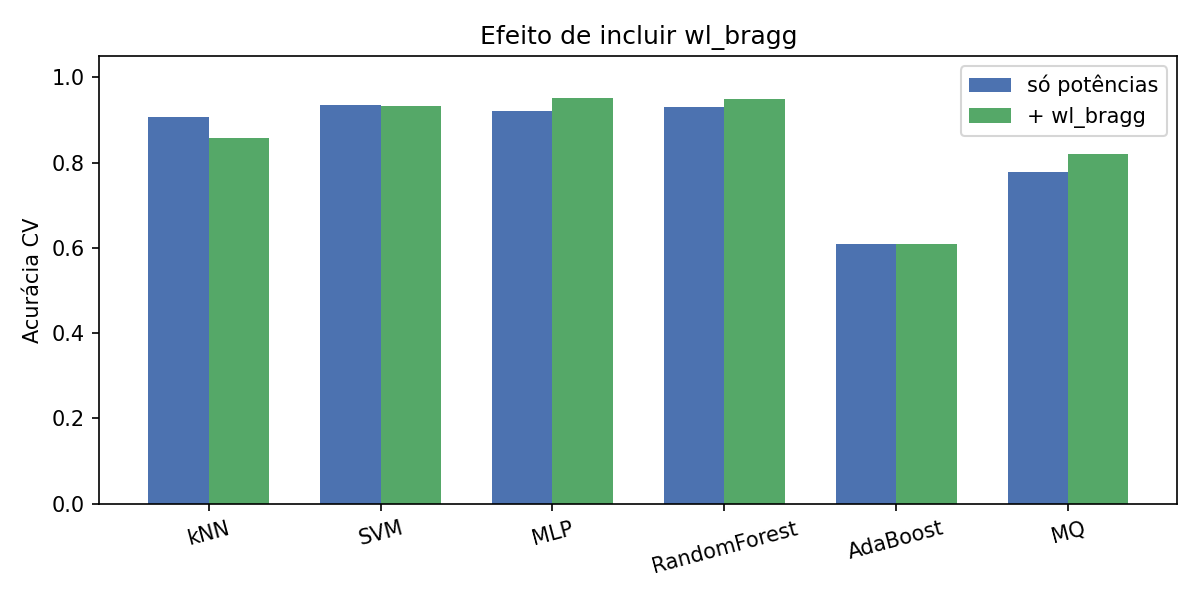
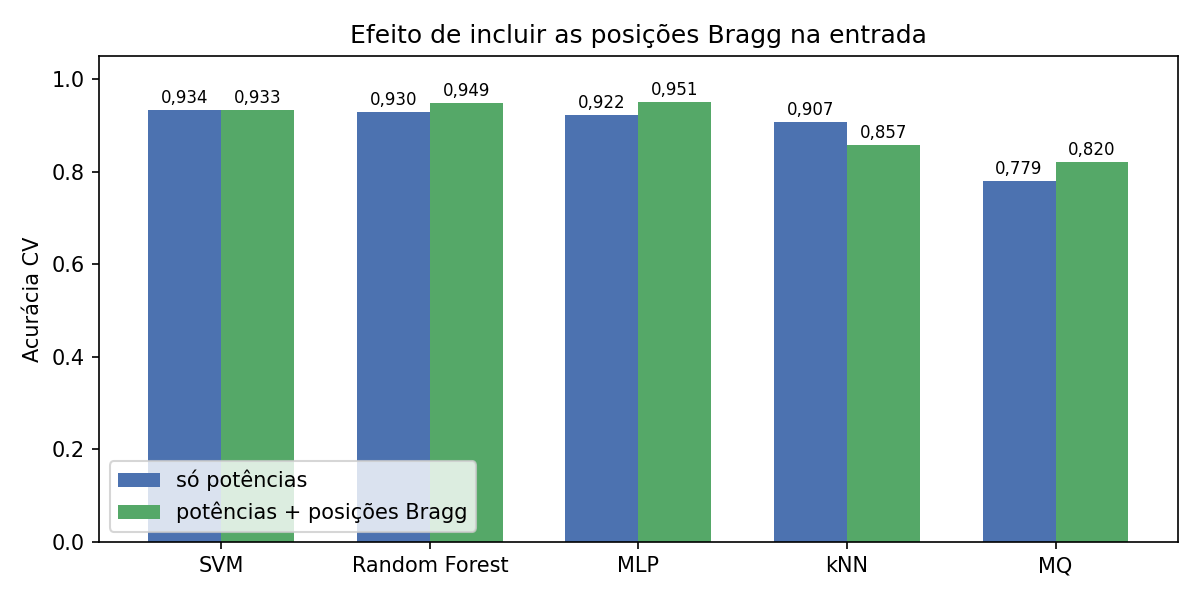
Polish IEEE paper prose and fix technical wording; refresh ablation figure
Fix LPFG dip width claim (tens of nm), submetric->subnanometric precision, expand abbreviations at first use, and drop the stale AdaBoost bars from the feature-ablation figure via a new plotting script.

diff --git a/paper/classification/scripts/plot_feature_ablation.py b/paper/classification/scripts/plot_feature_ablation.py
@@ -1,0 +1,64 @@
+"""Regenera a figura da ablação de features (potências vs +posições Bragg).
+
+Lê results/passo5_compare_features.csv e exclui o AdaBoost, cuja linha no CSV
+foi gerada com a configuração antiga (stumps, acc ~0.61) e não reflete o modelo
+reajustado reportado no artigo. Salva em classification/figures e ieee/figures.
+"""
+
+from __future__ import annotations
+
+from pathlib import Path
+
+import matplotlib
+
+matplotlib.use("Agg")
+import matplotlib.pyplot as plt
+import numpy as np
+import pandas as pd
+
+ROOT = Path(__file__).resolve().parents[1]
+RESULTS_DIR = ROOT / "results"
+FIGURES_DIR = ROOT / "figures"
+IEEE_FIGURES_DIR = ROOT.parent / "ieee" / "figures"
+
+LABELS = {
+    "kNN": "kNN",
+    "SVM": "SVM",
+    "MLP": "MLP",
+    "RandomForest": "Random Forest",
+    "MQ": "MQ",
+}
+
+
+def main() -> None:
+    df = pd.read_csv(RESULTS_DIR / "passo5_compare_features.csv")
+    df = df[df["classifier"] != "AdaBoost"].reset_index(drop=True)
+    order = ["SVM", "RandomForest", "MLP", "kNN", "MQ"]
+    df["classifier"] = pd.Categorical(df["classifier"], categories=order, ordered=True)
+    df = df.sort_values("classifier").reset_index(drop=True)
+
+    fig, ax = plt.subplots(figsize=(8, 4))
+    xpos = np.arange(len(df))
+    w = 0.35
+    ax.bar(xpos - w / 2, df["powers_only"], w, label="só potências", color="#4c72b0")
+    ax.bar(xpos + w / 2, df["powers_plus_wl"], w, label="potências + posições Bragg", color="#55a868")
+    ax.set_xticks(xpos)
+    ax.set_xticklabels([LABELS[c] for c in df["classifier"]])
+    ax.set_ylabel("Acurácia CV")
+    ax.set_title("Efeito de incluir as posições Bragg na entrada")
+    ax.legend(loc="lower left")
+    ax.set_ylim(0, 1.05)
+    for x, (p, q) in zip(xpos, zip(df["powers_only"], df["powers_plus_wl"])):
+        ax.text(x - w / 2, p + 0.015, f"{p:.3f}".replace(".", ","), ha="center", fontsize=8)
+        ax.text(x + w / 2, q + 0.015, f"{q:.3f}".replace(".", ","), ha="center", fontsize=8)
+    fig.tight_layout()
+
+    for out_dir in (FIGURES_DIR, IEEE_FIGURES_DIR):
+        out_dir.mkdir(parents=True, exist_ok=True)
+        fig.savefig(out_dir / "passo5_compare_features.png", dpi=150)
+        print(f"salvo: {out_dir / 'passo5_compare_features.png'}")
+    plt.close(fig)
+
+
+if __name__ == "__main__":
+    main()

diff --git a/paper/ieee/main.tex b/paper/ieee/main.tex
@@ -32,12 +32,12 @@ Juiz de Fora, MG, Brasil}
 \maketitle
 
 \begin{abstract}
-Sensores LPFG oferecem alta sensibilidade, mas sua interrogação espectral convencional é cara.
-Uma alternativa \emph{modula} o espectro da LPFG com um array de FBGs e estima $\lambda_{res}$ por aprendizado de máquina.
-Observamos que as quatro FBGs mais próximas de $\lambda_{res}$ formam sempre uma janela contígua; isso permite reduzir a seleção de canais a dez classes $C_s=\{s,\ldots,s+3\}$.
-Avaliamos seis classificadores clássicos em $7300$ amostras reais, com nested CV e hold-out estratificado.
-SVM e Random Forest atingem acurácia $0{,}938$ no hold-out; a análise mostra erros predominantemente entre janelas adjacentes e impacto do desbalanceamento de classes.
-O resultado apoia uma arquitetura em duas etapas: classificar a janela e, em seguida, estimar $\lambda_{res}$.
+Sensores baseados em redes de período longo (LPFG) oferecem alta sensibilidade, mas sua interrogação espectral convencional exige equipamentos caros.
+Uma alternativa de baixo custo cascateia a LPFG a um array de redes de Bragg (FBG): o espectro da LPFG modula as potências refletidas pelo array, e um modelo de aprendizado de máquina estima o comprimento de onda ressonante $\lambda_{res}$.
+Observamos que as quatro FBGs mais próximas de $\lambda_{res}$ formam sempre uma janela contígua de índices, o que reduz a seleção de canais a dez classes $C_s=\{s,\ldots,s+3\}$.
+Avaliamos seis classificadores clássicos em $7300$ amostras reais, com validação cruzada aninhada e hold-out estratificado.
+SVM e Random Forest atingem acurácia de $0{,}938$ no hold-out; a análise mostra erros concentrados entre janelas adjacentes e impacto do desbalanceamento de classes.
+Os resultados apoiam uma arquitetura em duas etapas: classificar a janela e, em seguida, estimar $\lambda_{res}$.
 \end{abstract}
 
 \begin{IEEEkeywords}
@@ -50,14 +50,14 @@ Redes de Bragg em fibra (FBG) e redes de período longo (LPFG) são tecnologias 
 Uma FBG reflete uma componente espectral estreita no comprimento de onda de Bragg --- tipicamente com largura da ordem de $0{,}05$ a $0{,}3$~nm em aplicações de sensores --- e desloca esse pico com deformação ou temperatura~\cite{Kersey1997FBG}.
 Essa assinatura estreita favorece multiplexação em comprimento de onda (WDM) ao longo de uma mesma fibra e sustenta cadeias de interrogação comerciais maduras~\cite{Kersey1997FBG}.
 LPFGs, por outro lado, acoplam o modo guiado fundamental a modos de revestimento que se propagam no mesmo sentido e atuam como filtros de rejeição de banda de baixas perdas de inserção~\cite{James1996LPFG}.
-O vale ressonante de uma LPFG pode estender-se por décimos de nanômetro, exigindo medidas espectrais de banda larga para localizar $\lambda_{res}$~\cite{Barino2025TIM}.
+O vale ressonante de uma LPFG, em contraste, pode estender-se por dezenas de nanômetros, exigindo medidas espectrais de banda larga para localizar o comprimento de onda ressonante $\lambda_{res}$~\cite{Barino2025TIM}.
 Na prática, isso frequentemente implica analisadores ópticos de espectro volumosos e/ou caros --- muitas vezes dedicados a um único sensor --- o que limita adoção em campo e a densidade de multiplexação frente às FBGs~\cite{Barino2025TIM}.
 
-Apesar do custo de interrogação, LPFGs permanecem atrativas: a fabricação pode ser mais simples que a de FBGs (técnicas point-by-point por arco elétrico ou laser, varredura laser, e até LPFGs dinâmicas por deformação mecânica) e a sensibilidade intrínseca a índice de refração abre aplicações em biosensores, monitoramento estrutural e indústria~\cite{Barino2025TIM}.
+Apesar do custo de interrogação, LPFGs permanecem atrativas: a fabricação pode ser mais simples que a de FBGs (técnicas point-by-point por arco elétrico ou laser, varredura laser, e até LPFGs dinâmicas por deformação mecânica) e a sensibilidade intrínseca a índice de refração abre aplicações em biossensores, monitoramento estrutural e indústria~\cite{Barino2025TIM}.
 Desenvolver métodos de interrogação baratos e integráveis a redes já existentes é, portanto, um passo para levar LPFGs além do laboratório~\cite{Barino2025TIM}.
 
 Uma estratégia para reutilizar a infraestrutura de FBGs consiste em cascatear a LPFG a um array de FBGs: o espectro de transmissão da LPFG modula as potências refletidas do array, e um modelo de aprendizado de máquina recupera $\lambda_{res}$ a partir dessas potências~\cite{Barino2020Sensors,Barino2024LAWOFS,Barino2025TIM}.
-Alternativas na literatura buscam reduzir custo via filtragem esparsa/densa do espectro (p.ex.\ AWGs); a linha de~\cite{Barino2025TIM} diferencia-se ao empregar um array FBG arbitrário e um modelo de autoatenção treinado em sintéticos, sem exigir conhecimento prévio detalhado da transmitância da LPFG.
+Alternativas na literatura buscam reduzir custo via filtragem esparsa/densa do espectro, p.ex.\ com grades de guias de onda em arranjo (AWG); a linha de~\cite{Barino2025TIM} diferencia-se ao empregar um array FBG arbitrário e um modelo de autoatenção treinado em dados sintéticos, sem exigir conhecimento prévio detalhado da transmitância da LPFG.
 Em~\cite{Barino2025TIM}, o sistema reporta RMSE de $0{,}75$~nm e MAPE de $0{,}0335\%$ em $73$ espectros LPFG medidos, além de erro relativo inferior a $1\%$ em uma aplicação de índice de refração.
 O mecanismo de atenção filtra dinamicamente canais (FBGs) mais informativos, evidenciando que apenas um subconjunto do array é decisório para a demodulação.
 
@@ -67,26 +67,26 @@ Nos dados filtrados ($1515<\lambda_{res}<1585$~nm), a máscara das quatro FBGs d
 
 \textbf{Contribuições:}
 (i)~formulação da seleção de FBGs como classificação com $10$ janelas contíguas, validada em dados reais;
-(ii)~comparação de seis classificadores clássicos com nested CV e hold-out isolado;
+(ii)~comparação de seis classificadores clássicos com validação cruzada aninhada (nested CV) e hold-out isolado;
 (iii)~análises complementares de erro versus $\lambda_{res}$, matriz de confusão e efeito de incluir as posições Bragg.
 
 \section{Trabalhos relacionados}
 
 \subsection{LPFG, FBG e interrogação}
-Vengsarkar \textit{et al.} introduziram LPFGs fotoinduzidas como filtros de rejeição de banda \emph{in-fiber}, acoplando o modo fundamental a modos de revestimento progressivos, com perdas de inserção baixas e reflexões de retorno extremamente reduzidas~\cite{James1996LPFG}.
+Vengsarkar \textit{et al.} introduziram LPFGs fotoinduzidas como filtros de rejeição de banda \emph{in-fiber}, acoplando o modo fundamental a modos de revestimento copropagantes, com perdas de inserção baixas e reflexões de retorno extremamente reduzidas~\cite{James1996LPFG}.
 Kersey \textit{et al.} revisaram sensores a grades em fibra, cobrindo sensores pontuais a FBG, grades chirpadas, lasers em fibra com FBG, LPFGs e configurações interferométricas~\cite{Kersey1997FBG}.
 No regime FBG, a condição de Bragg liga o passo da grade ao índice efetivo do núcleo; uma fonte de banda larga injeta luz na fibra e uma componente estreita é refletida (e ausente na transmissão), deslocando-se com o mensurando~\cite{Kersey1997FBG}.
 Essa propriedade de auto-referência espectral e a facilidade de multiplexação serial tornaram FBGs centrais em estruturas inteligentes e em redes quasi-distribuídas de deformação/temperatura~\cite{Kersey1997FBG}.
 
-A assimetria espectral FBG/LPFG explica o descompasso de interrogação: FBGs operam bem com eletrônica optoeletrônica compartilhada via WDM, enquanto o vale largo da LPFG dificulta empilhar muitos sensores na mesma banda~\cite{Barino2025TIM}.
+A assimetria espectral FBG/LPFG explica o descompasso de interrogação: FBGs operam bem com instrumentação optoeletrônica compartilhada via WDM, enquanto o vale largo da LPFG dificulta empilhar muitos sensores na mesma banda~\cite{Barino2025TIM}.
 Arquiteturas híbridas exploram a maturidade dos interrogadores de FBG: o equipamento ``enxerga'' a LPFG indiretamente, via modulação das potências refletidas do array.
 Isso preserva vantagens clássicas do sensoriamento a fibra --- operação eletricamente passiva no ponto de medida, imunidade a EMI e possibilidade de sensoriamento distribuído/quasi-distribuído --- ao mesmo tempo em que desloca a complexidade para o processamento dos canais FBG~\cite{Kersey1997FBG}.
 
 \subsection{Demodulação LPFG via array FBG e ML}
-Barino e dos Santos propuseram um interrogador LPG baseado em array FBG e rede neural artificial, mapeando potências em $\lambda_{res}$~\cite{Barino2020Sensors}.
+Barino e dos Santos propuseram um interrogador de LPFG baseado em array FBG e rede neural artificial, mapeando potências em $\lambda_{res}$~\cite{Barino2020Sensors}.
 Em~\cite{Barino2024LAWOFS}, a linha foi estendida a um sensor LPFG cascateado a um array FBG com modelos de aprendizado de máquina.
 O trabalho subsequente~\cite{Barino2025TIM} detalha um arranjo experimental com $13$ FBGs (centros aproximados entre $1510$ e $1590$~nm), interrogador comercial FS22DI (HBM) e circuladores ópticos para evitar dupla passagem atenuante pela LPFG antes/depois da reflexão no array.
-O pré-processamento extrai comprimento de Bragg e intensidade refletida por pico (aproximação gaussiana), remove \emph{baseline} sem LPFG e normaliza as potências pela soma --- o mesmo espírito de normalização adotado neste trabalho.
+O pré-processamento extrai comprimento de Bragg e intensidade refletida por pico (aproximação gaussiana), remove o \emph{baseline} medido sem a LPFG e normaliza as potências pela soma --- o mesmo espírito de normalização adotado neste trabalho.
 O modelo com autoatenção é treinado em espectros LPFG sintéticos e validado em medidas reais~\cite{Barino2025TIM}.
 Conceitualmente, o modelo busca independência das posições absolutas das FBGs: a partir da força de entrada normalizada, gera um vetor de ``força filtrada'' que, em produto interno com os comprimentos de Bragg, estima $\lambda_{res}$~\cite{Barino2025TIM}.
 A autoatenção produz um mapa dinâmico (por amostra) que modula features ocultas, atenuando canais ruidosos ou FBGs distantes do vale~\cite{Barino2025TIM}.
@@ -94,16 +94,16 @@ Treinar em sintéticos reduz a necessidade de coletar vastos conjuntos experimen
 Em conjunto, essa linha resolve a \emph{regressão} de $\lambda_{res}$; permanece aberta a pergunta de reconhecimento de padrões: como declarar, de forma discreta e avaliável, \emph{quais} FBGs devem entrar na estimação.
 
 Declarar a seleção de canais explicitamente --- em vez de deixá-la apenas implícita nos pesos de uma rede profunda --- permite métricas clássicas (acurácia, F1, matriz de confusão) e facilita diagnóstico em uma cascata classificação$\to$regressão.
-Além disso, um estágio de classificação raso pode ser retreinado quando o espaçamento do array FBG muda, enquanto o regressor de~\cite{Barino2025TIM} permanece responsável pela precisão submetrica de $\lambda_{res}$.
+Além disso, um estágio de classificação raso pode ser retreinado quando o espaçamento do array FBG muda, enquanto o regressor de~\cite{Barino2025TIM} permanece responsável pela precisão subnanométrica de $\lambda_{res}$.
 A formulação multiclasse deste artigo pode ser lida, portanto, como uma versão \emph{explícita} e avaliável da filtragem de canais que a autoatenção realiza de modo contínuo.
 
 \subsection{Classificadores empregados}
 Adotamos métodos clássicos e bem documentados em reconhecimento de padrões~\cite{Hastie2009ESL}.
 Máquinas de vetores de suporte (SVM) maximizam a margem de separação e, com kernels, tratam fronteiras não lineares; a formulação original de Cortes e Vapnik enfatiza generalização via controle de capacidade~\cite{Cortes1995SVM} --- usamos kernel RBF.
 Florestas aleatórias agregam árvores treinadas com aleatoriedade em amostras/atributos; o erro de generalização converge com o número de árvores e depende da força individual e da correlação entre elas, com robustez favorável a ruído em relação a certos esquemas de boosting~\cite{Breiman2001RF}.
-Também avaliamos $k$-vizinhos mais próximos (kNN), perceptron multicamadas (MLP), AdaBoost com árvores de decisão e um baseline linear (RidgeClassifier, denotado MQ).
+Também avaliamos $k$-vizinhos mais próximos (kNN), perceptron multicamadas (MLP), AdaBoost com árvores de decisão e um baseline linear por mínimos quadrados regularizados (\texttt{RidgeClassifier}, denotado MQ).
 A escolha privilegia reprodutibilidade e contraste entre indutores lineares e não lineares, em vez de competir diretamente com a arquitetura profunda de~\cite{Barino2025TIM} na regressão.
-Nested CV, recomendada para evitar viés otimista ao ajustar hiperparâmetros~\cite{Hastie2009ESL}, é o protocolo de seleção de modelos deste artigo.
+A validação cruzada aninhada (nested CV), recomendada para evitar viés otimista ao ajustar hiperparâmetros~\cite{Hastie2009ESL}, é o protocolo de seleção de modelos deste artigo.
 
 \section{Formulação do problema}
 
@@ -132,9 +132,9 @@ Janelas vizinhas $C_s$ e $C_{s+1}$ compartilham três índices e diferem por um,
 \subsection{Dados e pré-processamento}
 Usamos o conjunto medido associado a~\cite{Barino2025TIM}.
 No arranjo experimental de referência, LPFG e array de $13$ FBGs (centros aproximados entre $1510$ e $1590$~nm) são cascateados e lidos por um interrogador comercial de FBGs; a LPFG modula o perfil de refletividade visto pelo interrogador~\cite{Barino2025TIM}.
-Há $8200$ amostras no arquivo bruto; o filtro $1515<\lambda_{res}<1585$~nm --- interior ao span do array --- produz $7300$ exemplos utilizáveis.
+Há $8200$ amostras no arquivo bruto; o filtro $1515<\lambda_{res}<1585$~nm --- interno à faixa coberta pelo array --- produz $7300$ exemplos utilizáveis.
 As potências são normalizadas por amostra (subtração do mínimo e divisão pela soma), como em~\cite{Barino2025TIM}, garantindo invariância a offset e escala global.
-A Fig.~\ref{fig:heatmap} exibe $73$ amostras espalhadas ao longo do intervalo de $\lambda_{res}$: a faixa de alta potência desloca-se pelas colunas do array, embora $\lambda_{res}$ não apareça na figura.
+A Fig.~\ref{fig:heatmap} exibe $73$ amostras espalhadas ao longo do intervalo útil e ordenadas por $\lambda_{res}$: a faixa de alta potência desloca-se pelas colunas do array conforme o vale da LPFG varre as posições das FBGs, o que evidencia a estrutura explorada pela classificação em janelas.
 
 A Tabela~\ref{tab:balance} quantifica o desbalanceamento.
 $C_2$ concentra quase $29\%$ dos exemplos, enquanto $C_3$ e $C_9$ ficam abaixo de $1{,}5\%$.
@@ -161,14 +161,14 @@ $C_4$ & 1501 & 20{,}56 & $C_9$ & 100 & 1{,}37 \\
 \begin{figure*}[!t]
 \centering
 \includegraphics[width=0.72\textwidth]{fig_fbg_power_heatmap_73x13.png}
-\caption{Potências FBG normalizadas ($73$ de $7300$ amostras). A diagonal clara indica o deslocamento do padrão pelo array; $\lambda_{res}$ não é exibido.}
+\caption{Potências FBG normalizadas ($73$ de $7300$ amostras, ordenadas por $\lambda_{res}$). A faixa clara em diagonal indica o deslocamento do padrão de potências pelo array à medida que $\lambda_{res}$ cresce.}
 \label{fig:heatmap}
 \end{figure*}
 
 \subsection{Classificadores e hiperparâmetros}
 Comparamos kNN, SVM~RBF, MLP, Random Forest, AdaBoost e MQ.
 kNN, SVM, MLP e MQ usam \texttt{StandardScaler} ajustado apenas no treino de cada partição.
-As grades de busca incluem, entre outros: $k\in\{3,5,7,11\}$ e pesos uniforme/distância (kNN); $C\in\{0{,}1,1,10\}$ e $\gamma\in\{\mathrm{scale},0{,}1\}$ (SVM); arquiteturas e regularização $\alpha$ (MLP); profundidade e número de árvores (RF); e, no AdaBoost, profundidade da árvore base $\in\{2,3,4\}$, $n_{\mathrm{estimators}}\in\{100,200\}$ e taxa de aprendizado $\in\{0{,}3,0{,}5,1{,}0\}$, sempre com \texttt{class\_weight=balanced}.
+As grades de busca incluem, entre outros: $k\in\{3,5,7,11\}$ e pesos uniforme/distância (kNN); $C\in\{0{,}1,1,10\}$ e $\gamma\in\{\mathrm{scale},0{,}1\}$ (SVM); arquiteturas e regularização $\alpha$ (MLP); profundidade e número de árvores (RF); e, no AdaBoost, profundidade da árvore base $\in\{2;3;4\}$, número de estimadores $\in\{100;200\}$ e taxa de aprendizado $\in\{0{,}3;\,0{,}5;\,1{,}0\}$, sempre com pesos de classe balanceados na árvore base.
 O consenso do AdaBoost no desenvolvimento foi profundidade~$4$, $200$ estimadores e taxa~$0{,}3$.
 
 \subsection{Protocolo de avaliação}
@@ -185,8 +185,8 @@ Implementações seguem a biblioteca \texttt{scikit-learn}, com semente fixa par
 \subsection{Desempenho agregado}
 A Tabela~\ref{tab:results} coloca CV e hold-out na mesma visão.
 SVM lidera a CV ($0{,}934\pm0{,}004$) e empata com Random Forest no hold-out ($0{,}938$).
-AdaBoost, após o ajuste descrito, entra no pelotão intermediário-alto ($0{,}923$ no hold-out), bem acima do baseline linear MQ ($0{,}789$), indicando que a fronteira potências$\to$janela é essencialmente não linear.
-O gap entre F1 weighted e F1 macro (omitido da tabela por espaço, porém observado em todos os métodos) acompanha o desbalanceamento da Tabela~\ref{tab:balance}.
+AdaBoost, após o ajuste descrito, aproxima-se dos líderes ($0{,}923$ no hold-out) e fica bem acima do baseline linear MQ ($0{,}789$), indicando que a fronteira potências$\to$janela é essencialmente não linear.
+A diferença entre F1 weighted e F1 macro --- p.ex., $0{,}931$ contra $0{,}874$ para o SVM no hold-out --- é observada em todos os métodos e acompanha o desbalanceamento da Tabela~\ref{tab:balance}.
 
 \begin{table}[!t]
 \caption{Desempenho multiclasse: CV (média $\pm$ desvio) e hold-out (HO).}
@@ -209,8 +209,8 @@ MQ & $0{,}779\pm0{,}007$ & $0{,}736$ & $0{,}789$ & $0{,}750$ \\
 
 \subsection{Erros versus $\lambda_{res}$}
 A Fig.~\ref{fig:lambda} mostra a acurácia do SVM por faixas de $\lambda_{res}$ (predições da CV empilhadas).
-Faixas centrais do intervalo útil são tipicamente mais fáceis; a degradação concentra-se em ${\approx}1548$--$1580$~nm, região em que classes de janela periféricas e amostras mais escassas se combinam.
-Essa visão é complementar à Tabela~\ref{tab:results}: o mesmo modelo ``médio'' esconde heterogeneidade espectral.
+A degradação concentra-se em ${\approx}1548$--$1580$~nm, região em que janelas periféricas e amostras mais escassas se combinam; a borda inferior do intervalo, em contraste, mantém acurácia próxima de $0{,}96$, de modo que a hipótese de que ``bordas espectrais pioram'' não se confirma de forma simétrica nestes dados.
+Essa visão é complementar à Tabela~\ref{tab:results}: a acurácia média global esconde uma heterogeneidade espectral relevante para a aplicação.
 
 \begin{figure}[!t]
 \centering
@@ -235,15 +235,15 @@ Diferenças pontuais em classes raras são esperadas dada a baixa contagem absol
 \end{figure*}
 
 \subsection{Ablação: posições Bragg}
-Concatenar $\boldsymbol{\lambda}_{\mathrm{FBG}}$ às potências altera o ranking de forma desigual: MLP ($+0{,}029$ em acurácia CV), Random Forest ($+0{,}019$) e MQ ($+0{,}041$) melhoram; o SVM permanece quase neutro; o kNN piora ($-0{,}050$).
-A Fig.~\ref{fig:feat} resume essa comparação lado a lado.
-Interpretamos o prejuízo do kNN como sensibilidade à mudança de escala/dimensionalidade sob distância euclidiana.
+Concatenar $\boldsymbol{\lambda}_{\mathrm{FBG}}$ às potências altera o ranking de forma desigual: MLP ($+0{,}029$ em acurácia CV), Random Forest ($+0{,}019$) e MQ ($+0{,}041$) melhoram; o SVM permanece quase neutro ($-0{,}001$); o kNN piora ($-0{,}050$).
+A Fig.~\ref{fig:feat} resume essa comparação lado a lado; o AdaBoost foi omitido porque a ablação foi executada antes do reajuste de hiperparâmetros descrito na metodologia, e o resultado antigo não seria comparável.
+Interpretamos o prejuízo do kNN como sensibilidade à mudança de escala e de dimensionalidade sob distância euclidiana.
 Para o MQ, as posições adicionam informação linearmente útil que as potências sozinhas não carregam de modo suficiente; para o SVM RBF, as potências já induzem uma margem competitiva sem as coordenadas Bragg.
 
 \begin{figure}[!t]
 \centering
 \includegraphics[width=\columnwidth]{passo5_compare_features.png}
-\caption{Acurácia CV: somente potências versus potências concatenadas às posições Bragg.}
+\caption{Acurácia CV: somente potências versus potências concatenadas às posições Bragg (AdaBoost omitido; ver texto).}
 \label{fig:feat}
 \end{figure}
 
@@ -252,14 +252,14 @@ Para o MQ, as posições adicionam informação linearmente útil que as potênc
 Formalizar a seleção de FBGs como dez classes alinha o problema à avaliação clássica de reconhecimento de padrões e torna explícito o conjunto de decisões~\cite{Hastie2009ESL}.
 Em relação à regressão de~\cite{Barino2025TIM}, o classificador atua como estágio anterior: se $C_s$ for predito corretamente, um estimador de $\lambda_{res}$ pode operar apenas sobre quatro canais, potencialmente reduzindo ruído de FBGs irrelevantes --- hipótese ainda não medida em RMSE.
 
-Do ponto de vista de engenharia de sensores, a cascata classificação$\to$regressão também facilita diagnóstico: falhas de demodulação podem ser atribuídas à janela errada (Fig.~\ref{fig:cm}) ou à estimação contínua dentro da janela correta.
-Além disso, um classificador raso (SVM/RF) é barato de retreinar quando o array FBG é recalibrado, enquanto o modelo de autoatenção de~\cite{Barino2025TIM} permanece responsável pela precisão submetrica de $\lambda_{res}$.
+Do ponto de vista de engenharia de sensores, a cascata classificação$\to$regressão também facilita diagnóstico: falhas de demodulação podem ser atribuídas à escolha da janela errada (Fig.~\ref{fig:cm}) ou à estimação contínua dentro da janela correta.
+Além disso, um classificador raso (SVM/RF) é barato de retreinar quando o array FBG é recalibrado, enquanto o modelo de autoatenção de~\cite{Barino2025TIM} permanece responsável pela precisão subnanométrica de $\lambda_{res}$.
 
 O desempenho de SVM/RF ($0{,}938$ no hold-out) indica que a etapa de janela é tratável com modelos clássicos.
 Por outro lado, o desbalanceamento (Tabela~\ref{tab:balance}) e a otimização por acurácia favorecem classes majoritárias: estratégias futuras incluem scorer macro-F1, reamostragem ou custos assimétricos, sobretudo para $C_3$ e $C_9$.
 Confusões adjacentes, embora preferíveis a erros longos, ainda podem deslocar a estimação de $\lambda_{res}$ em frações de nanômetro se a regressão for sensível ao canal excluído/incluído indevidamente.
 
-Limitações: (i)~não quantificamos o ganho de RMSE ao fixar a janela antes da regressão; (ii)~o protocolo usa um único hold-out (além da CV), suficiente para o escopo da disciplina, porém sensível à partição; (iii)~não exploramos modelos profundos na classificação, propositalmente, para isolar o ganho da formulação multiclasse; (iv)~a Lorentziana da Fig.~\ref{fig:schema} é ilustrativa, não um espectro medido.
+Limitações: (i)~não quantificamos o ganho de RMSE ao fixar a janela antes da regressão; (ii)~o protocolo usa um único hold-out (além da CV), suficiente para o escopo deste estudo, porém sensível à partição; (iii)~não exploramos modelos profundos na classificação, propositalmente, para isolar o ganho da formulação multiclasse; (iv)~a curva Lorentziana da Fig.~\ref{fig:schema} é ilustrativa, não um espectro medido.
 
 \section{Conclusão}
 